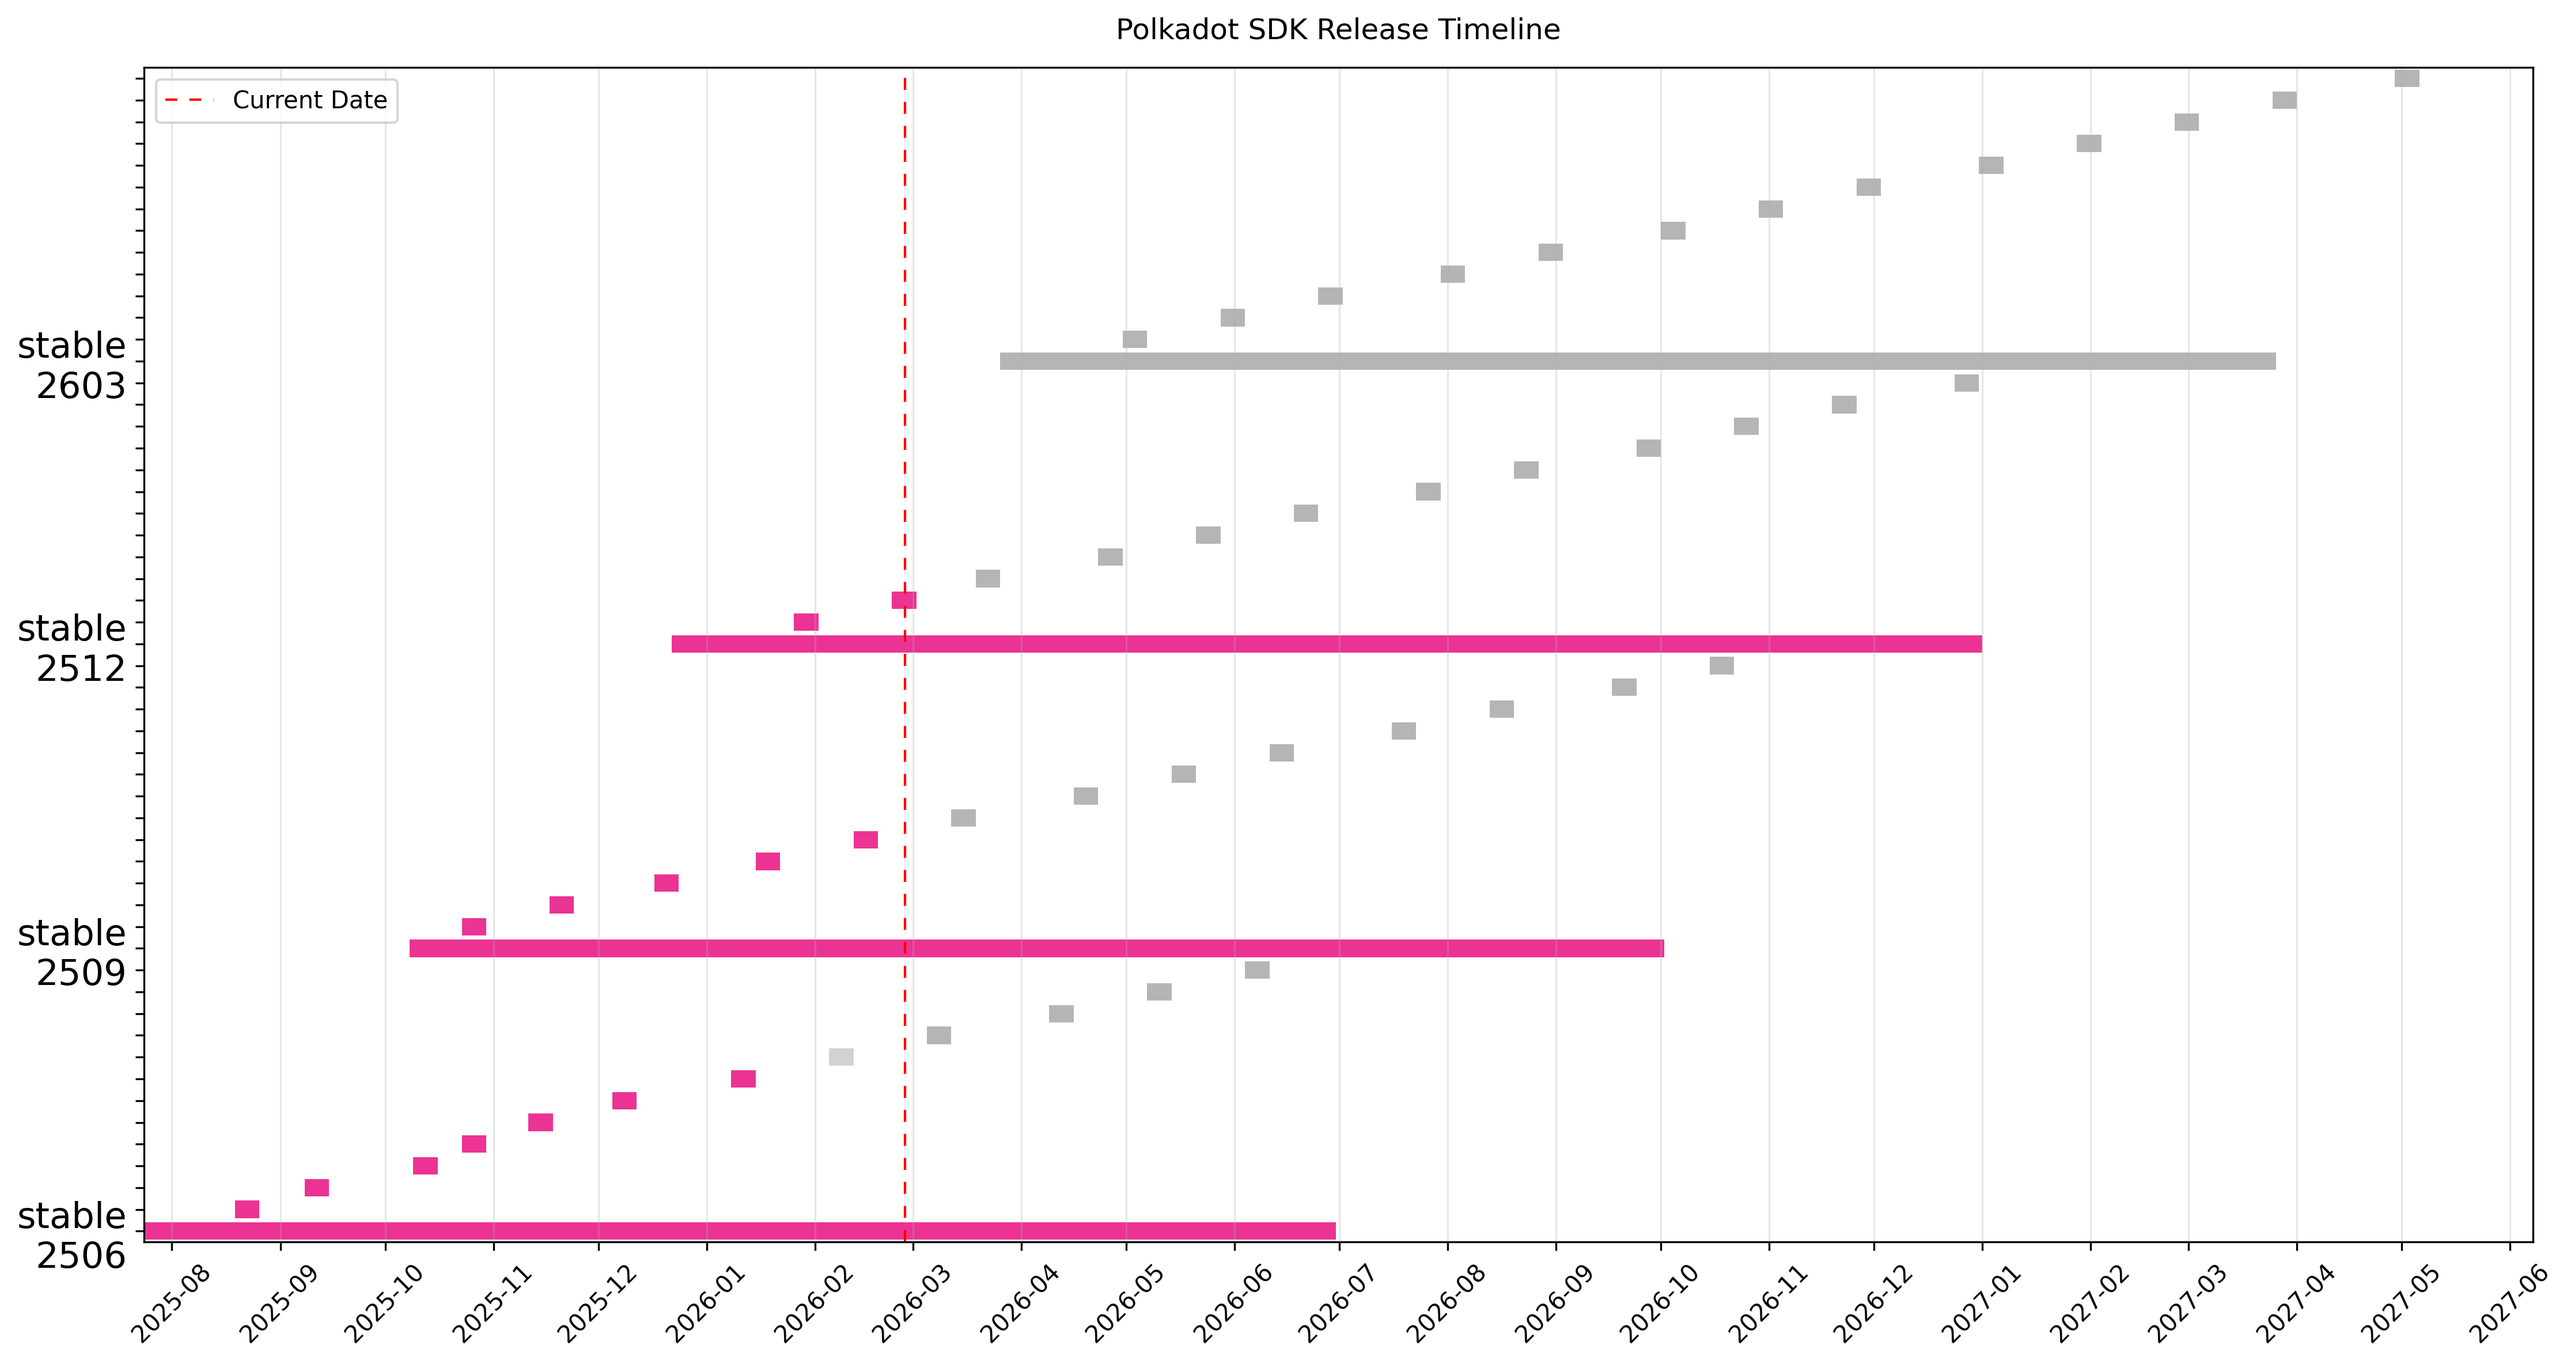
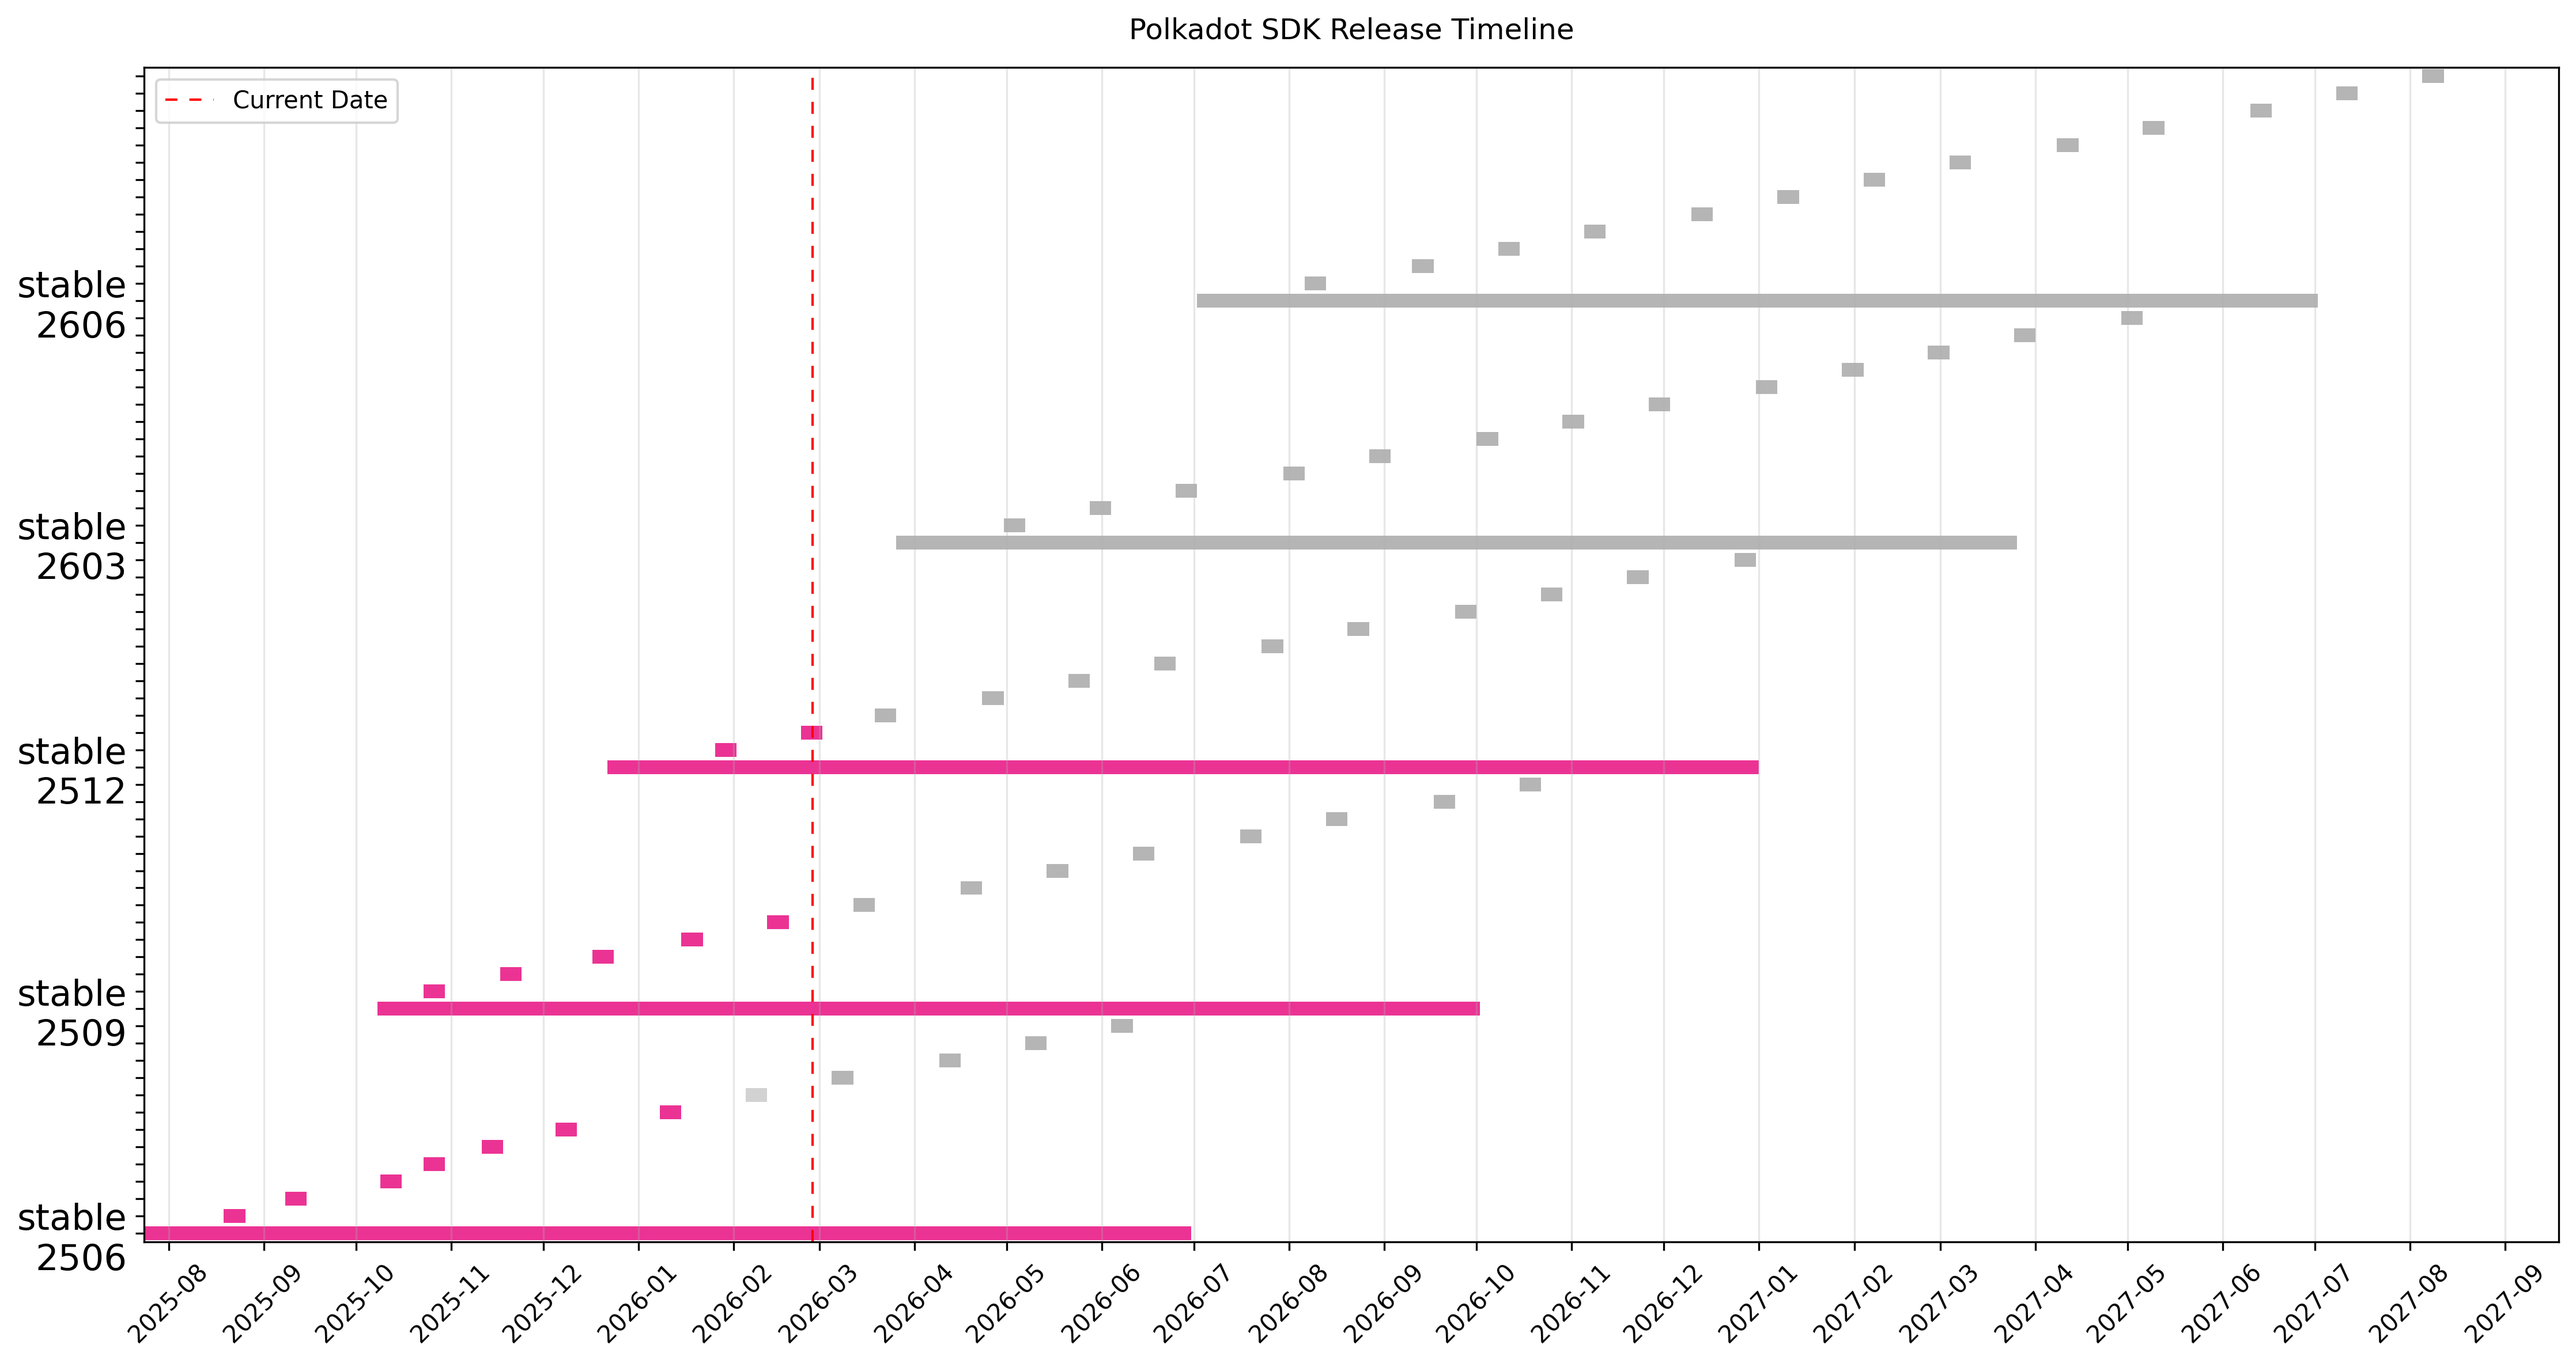
Plan stable2606 (#114)

diff --git a/CALENDAR.md b/CALENDAR.md
@@ -8,6 +8,20 @@ Full untruncated version index.
 
 | Version | SemVer | Cutoff | Publish | End of Life | State |
 |---------|--------|--------|---------|-------------|-------|
+| **stable2606** | 1.23.0 | 2026-05-18 | 2026-07-02 | 2027-07-02 | Planned |
+| &nbsp;&nbsp;stable2606-1 | 1.23.1 | 2026-08-03 | 2026-08-06 |  | Planned |
+| &nbsp;&nbsp;stable2606-2 | 1.23.2 | 2026-09-07 | 2026-09-10 |  | Planned |
+| &nbsp;&nbsp;stable2606-3 | 1.23.3 | 2026-10-05 | 2026-10-08 |  | Planned |
+| &nbsp;&nbsp;stable2606-4 | 1.23.4 | 2026-11-02 | 2026-11-05 |  | Planned |
+| &nbsp;&nbsp;stable2606-5 | 1.23.5 | 2026-12-07 | 2026-12-10 |  | Planned |
+| &nbsp;&nbsp;stable2606-6 | 1.23.6 | 2027-01-04 | 2027-01-07 |  | Planned |
+| &nbsp;&nbsp;stable2606-7 | 1.23.7 | 2027-02-01 | 2027-02-04 |  | Planned |
+| &nbsp;&nbsp;stable2606-8 | 1.23.8 | 2027-03-01 | 2027-03-04 |  | Planned |
+| &nbsp;&nbsp;stable2606-9 | 1.23.9 | 2027-04-05 | 2027-04-08 |  | Planned |
+| &nbsp;&nbsp;stable2606-10 | 1.23.10 | 2027-05-03 | 2027-05-06 |  | Planned |
+| &nbsp;&nbsp;stable2606-11 | 1.23.11 | 2027-06-07 | 2027-06-10 |  | Planned |
+| &nbsp;&nbsp;stable2606-12 | 1.23.12 | 2027-07-05 | 2027-07-08 |  | Planned |
+| &nbsp;&nbsp;stable2606-13 | 1.23.13 | 2027-08-02 | 2027-08-05 |  | Planned |
 | **stable2603** | 1.22.0 | 2026-02-09 | 2026-03-26 | 2027-03-26 | Planned |
 | &nbsp;&nbsp;stable2603-1 | 1.22.1 | 2026-04-27 | 2026-04-30 |  | Planned |
 | &nbsp;&nbsp;stable2603-2 | 1.22.2 | 2026-05-25 | 2026-05-28 |  | Planned |

diff --git a/README.md b/README.md
@@ -20,6 +20,10 @@ Planned and historic release dates:
 
 | Version | SemVer | Cutoff | Publish | End of Life | State |
 |---------|--------|--------|---------|-------------|-------|
+| **stable2606** | 1.23.0 | 2026-05-18 | 2026-07-02 | 2027-07-02 | Planned |
+| &nbsp;&nbsp;stable2606-1 | 1.23.1 | 2026-08-03 | 2026-08-06 |  | Planned |
+| &nbsp;&nbsp;stable2606-2 | 1.23.2 | 2026-09-07 | 2026-09-10 |  | Planned |
+| &nbsp;&nbsp;[11 more planned](CALENDAR.md) |  |  | | |
 | **stable2603** | 1.22.0 | 2026-02-09 | 2026-03-26 | 2027-03-26 | Planned |
 | &nbsp;&nbsp;stable2603-1 | 1.22.1 | 2026-04-27 | 2026-04-30 |  | Planned |
 | &nbsp;&nbsp;stable2603-2 | 1.22.2 | 2026-05-25 | 2026-05-28 |  | Planned |
